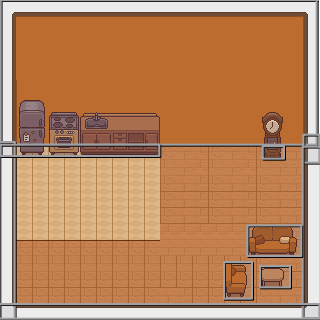
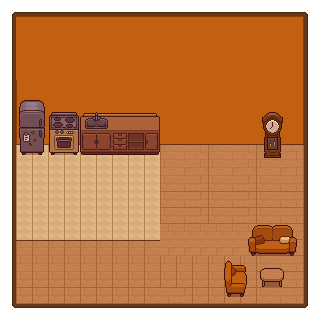
Fixed collision detection and camera movement in intro scene.

diff --git a/src/Intro.py b/src/Intro.py
@@ -17,13 +17,13 @@ class Intro:
         self._scene = Scene()
         self._sprites = pg.sprite.Group()
         self._obstacles = pg.sprite.Group()
-        self._player = Player(((S_WIDTH - TILE_SIZE) / 2, (S_HEIGHT - TILE_SIZE) / 2), [self._sprites], self._obstacles)
+        self._player = Player(((S_WIDTH - TILE_SIZE) / 2, (S_HEIGHT - TILE_SIZE) / 2), [self._sprites], self._obstacles, True)
 
-        self._map = pg.transform.scale(pg.image.load("assets/tilemaps/Intro.png").convert(), (1280, 768))
+        self._map = pg.transform.scale(pg.image.load("assets/tilemaps/Intro.png").convert(), (320*2, 320*2))
         self._map_rect = self._map.get_rect()
         self.ui = UI()
 
-        self._map_rect.topleft = (-800, -300)
+        self._map_rect.topleft = (S_WIDTH/2 - 320, S_HEIGHT / 2 - 320)
         self._tiled_map = pytmx.TiledMap('assets/tilemaps/Intro.tmx')
         self._tm = pytmx.load_pygame("assets/tilemaps/Intro.tmx", pixelalpha=True)
         self.load_map_objects()
@@ -37,11 +37,11 @@ class Intro:
 
     def load_map_objects(self):
         for obj in self._tm.objects:
-            Obstacle(self._obstacles, pg.Rect((obj.x*2 - 800, obj.y*2 - 300), (obj.width*2, obj.height*2)))
+            Obstacle(self._obstacles, pg.Rect((obj.x*2 + 320, obj.y*2 + 40), (obj.width*2, obj.height*2)))
 
     def update(self):
         self._sprites.update()
-        self.update_camera()
+        # self.update_camera()
         self.is_ready()
         self.ui.display_dialogue(self._player)
 
@@ -49,32 +49,32 @@ class Intro:
         return self._player._ready
 
     
-    def update_camera(self):
-        self._map_rect.topleft -= self._player._v * self._player._speed
-        for obj in self._obstacles:
-                obj.rect.topleft -= self._player._v * self._player._speed
+    # def update_camera(self):
+    #     self._map_rect.topleft -= self._player._v * self._player._speed
+    #     for obj in self._obstacles:
+    #             obj.rect.topleft -= self._player._v * self._player._speed
 
-        if self._player.check_collisions():
-            self._map_rect.topleft += self._player._v * self._player._speed
-            for obj in self._obstacles:
-                obj.rect.topleft += self._player._v * self._player._speed
+    #     if self._player.check_collisions():
+    #         self._map_rect.topleft += self._player._v * self._player._speed
+    #         for obj in self._obstacles:
+    #             obj.rect.topleft += self._player._v * self._player._speed
 
-        if self._map_rect.x + self._map_rect.width < S_WIDTH:
-            self._map_rect.x = S_WIDTH - self._map_rect.width
-            for obj in self._obstacles:
-                obj.rect.topleft += self._player._v * self._player._speed
-        if self._map_rect.x > 0:
-            self._map_rect.x = 0
-            for obj in self._obstacles:
-                obj.rect.topleft += self._player._v * self._player._speed
-        if self._map_rect.y + self._map_rect.height < S_HEIGHT:
-            self._map_rect.y = S_HEIGHT - self._map_rect.height 
-            for obj in self._obstacles:
-                obj.rect.topleft += self._player._v * self._player._speed
-        if self._map_rect.y > 0:
-            self._map_rect.y = 0
-            for obj in self._obstacles:
-                obj.rect.topleft += self._player._v * self._player._speed
+    #     if self._map_rect.x + self._map_rect.width < S_WIDTH:
+    #         self._map_rect.x = S_WIDTH - self._map_rect.width
+    #         for obj in self._obstacles:
+    #             obj.rect.topleft += self._player._v * self._player._speed
+    #     if self._map_rect.x > 0:
+    #         self._map_rect.x = 0
+    #         for obj in self._obstacles:
+    #             obj.rect.topleft += self._player._v * self._player._speed
+    #     if self._map_rect.y + self._map_rect.height < S_HEIGHT:
+    #         self._map_rect.y = S_HEIGHT - self._map_rect.height 
+    #         for obj in self._obstacles:
+    #             obj.rect.topleft += self._player._v * self._player._speed
+    #     if self._map_rect.y > 0:
+    #         self._map_rect.y = 0
+    #         for obj in self._obstacles:
+    #             obj.rect.topleft += self._player._v * self._player._speed
         
 
         
